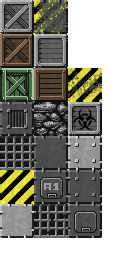
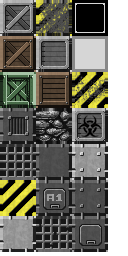
New textures

diff --git a/core/src/com/vt/gameobjects/characters/CharacterObject.java b/core/src/com/vt/gameobjects/characters/CharacterObject.java
@@ -1,7 +1,6 @@
 package com.vt.gameobjects.characters;
 
 import com.badlogic.gdx.ai.steer.behaviors.Arrive;
-import com.badlogic.gdx.graphics.g2d.Animation;
 import com.badlogic.gdx.graphics.g2d.Batch;
 import com.badlogic.gdx.math.Vector2;
 import com.badlogic.gdx.scenes.scene2d.utils.Align;
@@ -13,7 +12,6 @@ import com.vt.gameobjects.pointers.ViewPointer;
 import com.vt.gameobjects.weapons.AbstractWeapon;
 import com.vt.gameobjects.weapons.Pistol;
 import com.vt.physics.CollisionManager;
-import com.vt.resources.AnimationWrapper;
 import com.vt.resources.Assets;
 import com.vt.serialization.RestorableValue;
 import com.vt.timedriven.DelayedAction;
@@ -30,10 +28,6 @@ public class CharacterObject extends ActingObject implements ControllableCharact
     private Vector2 m_lastPosition;
     private boolean m_keepOrientation = true;
     private AbstractWeapon m_weapon;
-    private AnimationWrapper m_animationCurrent;
-    private AnimationWrapper m_animationMove;
-    private AnimationWrapper m_animationShoot;
-    private AnimationWrapper m_animationStand;
     private DelayedAction m_shootingAction;
 
     protected enum State {
@@ -65,32 +59,6 @@ public class CharacterObject extends ActingObject implements ControllableCharact
         setOrigin(Constants.PLAYER_ORIGIN_RELATIVE_X * Constants.PLAYER_WIDTH,
                 Constants.PLAYER_ORIGIN_RELATIVE_Y * Constants.PLAYER_HEIGHT);
         setTexture(Assets.getInstance().gameEntities.player);
-
-        m_animationMove = new AnimationWrapper(
-                new Animation(
-                        Constants.PLAYER_ANIMATION_FRAME_TIME_BASE,
-                        Assets.getInstance().gameEntities.playerAnimationMove,
-                        Animation.PlayMode.LOOP
-                )
-        );
-
-        m_animationStand = new AnimationWrapper(
-                new Animation(
-                        Constants.PLAYER_ANIMATION_FRAME_TIME_BASE,
-                        Assets.getInstance().gameEntities.playerAnimationStand,
-                        Animation.PlayMode.LOOP
-                )
-        );
-
-        m_animationShoot = new AnimationWrapper(
-                new Animation(
-                        Constants.PLAYER_SHOOTING_ANIMATION_FRAME_TIME,
-                        Assets.getInstance().gameEntities.playerAnimationShoot,
-                        Animation.PlayMode.NORMAL
-                )
-        );
-        m_animationShoot.setNormalPlayMode(Animation.PlayMode.NORMAL);
-        m_animationShoot.setReversedPlayMode(Animation.PlayMode.REVERSED);
 
         this.setName(Constants.PLAYER_ACTOR_NAME);
 
@@ -166,10 +134,9 @@ public class CharacterObject extends ActingObject implements ControllableCharact
     public void shoot() {
         if (m_weapon != null) {
             setState(State.Shoot);
-            m_animationShoot.restart();
             if (m_shootingAction == null) {
                 m_shootingAction = new DelayedAction(
-                        Constants.PLAYER_SHOOTING_ANIMATION_DURATION,
+                        0.2f, // TODO: change to constant
                         new Runnable() {
                             @Override
                             public void run() {
@@ -295,29 +262,13 @@ public class CharacterObject extends ActingObject implements ControllableCharact
     private void manageAnimation() {
         switch (m_state) {
             case Stand:
-                changeAnimation(m_animationStand);
                 break;
             case Move:
-                changeAnimation(m_animationMove);
                 break;
             case Shoot:
-                changeAnimation(m_animationShoot);
                 break;
             default:
-                changeAnimation(m_animationStand);
                 break;
-        }
-        if (m_animationCurrent != null)
-            setTexture(m_animationCurrent.getCurrentFrame());
-    }
-
-    private void changeAnimation(AnimationWrapper a) {
-        if (m_animationCurrent != a) {
-            m_animationCurrent = a;
-            if (Environment.getInstance().isRewinding())
-                m_animationCurrent.restartReversed();
-            else
-                m_animationCurrent.restart();
         }
     }
 }

diff --git a/core/src/com/vt/game/Constants.java b/core/src/com/vt/game/Constants.java
@@ -12,7 +12,7 @@ public class Constants {
     public static final float PLAYER_WIDTH = 0.75f;
     public static final float PLAYER_HEIGHT = 0.75f;
     public static final float PLAYER_BOUNDING_RADIUS = 0.3f;
-    public static final float PLAYER_ORIGIN_RELATIVE_X = 0.25f; // in % of width
+    public static final float PLAYER_ORIGIN_RELATIVE_X = 0.50f; // in % of width
     public static final float PLAYER_ORIGIN_RELATIVE_Y = 0.50f; // in % of height
     public static final float MOVEMENT_POINTER_HEIGHT = 0.5f;
     public static final float MOVEMENT_POINTER_WIDTH = 0.5f;
@@ -71,17 +71,14 @@ public class Constants {
     public static final String ARIAL_32_ASSET_NAME = "fonts/arial_32.fnt";
 
     public static final String TEXTURE_ATLAS_PACK = "entities.pack";
-    public static final String PLAYER_ASSET_NAME = "marine_pistol";
-    public static final String PLAYER_SHOOTING_ASSET_NAME = "marine_pistol_fire";
+    public static final String CIRCLE_WITH_POINTER_ASSET_NAME = "circleWithPointer";
     public static final String MOVEMENT_POINTER_ASSET_NAME = "movementPointer";
     public static final String VIEW_POINTER_ASSET_NAME = "viewPointer";
     public static final String PROJECTILE_ASSET_NAME = "projectile";
 
-    public static final float PLAYER_ANIMATION_FRAME_TIME_BASE = 0.35f;
-    public static final float PLAYER_SHOOTING_ANIMATION_FRAME_TIME = 0.2f;
-    public static final float PLAYER_SHOOTING_ANIMATION_DURATION = PLAYER_SHOOTING_ANIMATION_FRAME_TIME;
-
     public static final String TERRAIN_ATLAS_PACK = "tiles.pack";
+    public static final String SIMPLE_FLOOR_ASSET_NAME = "tile_floor";
+    public static final String SIMPLE_WALL_ASSET_NAME = "tile_wall";
     public static final String PLAIN_FLOOR_LIGHT_ASSET_NAME = "tile1";
     public static final String PLAIN_FLOOR_WITH_DOTS_LIGHT_ASSET_NAME = "tile2";
     public static final String PLAIN_FLOOR_DARK_ASSET_NAME = "tile16";
@@ -113,10 +110,10 @@ public class Constants {
     public final static float MAX_ANGULAR_SPEED_DEFAULT = 30;
     public final static float MAX_ANGULAR_ACCELERATION_DEFAULT = 30;
 
-    public final static float MAX_PLAYER_LINEAR_SPEED = 2.0f; // meters per second (4 m/s = 14.4 km/h)
+    public final static float MAX_PLAYER_LINEAR_SPEED = 3.0f; // meters per second (4 m/s = 14.4 km/h)
     public final static float MAX_PLAYER_LINEAR_ACCELERATION = 6.0f;
-    public final static float MAX_PLAYER_ANGULAR_SPEED = 180; // old value = 30
-    public final static float MAX_PLAYER_ANGULAR_ACCELERATION = 180; // old value = 30
+    public final static float MAX_PLAYER_ANGULAR_SPEED = 120; // old value = 30
+    public final static float MAX_PLAYER_ANGULAR_ACCELERATION = 120; // old value = 30
 
     public final static float PLAYER_ARRIVAL_TOLERANCE = 0.08f;
     public final static float PLAYER_ARRIVAL_TOLERANCE_POW_2 = PLAYER_ARRIVAL_TOLERANCE * PLAYER_ARRIVAL_TOLERANCE;
@@ -132,7 +129,7 @@ public class Constants {
 
     // time and game logic ----------------------------------------------------
     public final static float REWIND_TIME = 3.0f;
-    public final static float REWIND_SPEED_MULTIPLIER = 3;
+    public final static float REWIND_SPEED_MULTIPLIER = 2;
     public final static float MAX_HISTORY_TIME = REWIND_TIME * 5;
     // ------------------------------------------------------------------------
 

diff --git a/core/src/com/vt/resources/Assets.java b/core/src/com/vt/resources/Assets.java
@@ -29,15 +29,14 @@ public class Assets implements Disposable, AssetErrorListener {
 
     public class GameEntities {
         public TextureAtlas.AtlasRegion player;
-        public Array<TextureAtlas.AtlasRegion> playerAnimationStand;
-        public Array<TextureAtlas.AtlasRegion> playerAnimationMove;
-        public Array<TextureAtlas.AtlasRegion> playerAnimationShoot;
         public TextureAtlas.AtlasRegion movementPointer;
         public TextureAtlas.AtlasRegion viewPointer;
         public TextureAtlas.AtlasRegion projectile;
     }
 
     public class Terrain {
+        public TextureAtlas.AtlasRegion simpleFloor;
+        public TextureAtlas.AtlasRegion simpleWall;
         public TextureAtlas.AtlasRegion plainFloorLight;
         public TextureAtlas.AtlasRegion plainFloorWithDotsLight;
         public TextureAtlas.AtlasRegion plainFloorDark;
@@ -79,15 +78,8 @@ public class Assets implements Disposable, AssetErrorListener {
             t.setFilter(Texture.TextureFilter.Linear, Texture.TextureFilter.Linear);
 
         gameEntities = new GameEntities();
-        gameEntities.player = atlas.findRegion(Constants.PLAYER_ASSET_NAME);
-
-        gameEntities.playerAnimationStand = new Array<TextureAtlas.AtlasRegion>(1);
-        gameEntities.playerAnimationStand.add(atlas.findRegion(Constants.PLAYER_ASSET_NAME));
-
-        gameEntities.playerAnimationMove = atlas.findRegions(Constants.PLAYER_ASSET_NAME);
-
-        gameEntities.playerAnimationShoot = new Array<TextureAtlas.AtlasRegion>(1);
-        gameEntities.playerAnimationShoot.add(atlas.findRegion(Constants.PLAYER_SHOOTING_ASSET_NAME));
+//        gameEntities.player = atlas.findRegion(Constants.PLAYER_ASSET_NAME);
+        gameEntities.player = atlas.findRegion(Constants.CIRCLE_WITH_POINTER_ASSET_NAME);
 
         gameEntities.movementPointer = atlas.findRegion(Constants.MOVEMENT_POINTER_ASSET_NAME);
         gameEntities.viewPointer = atlas.findRegion(Constants.VIEW_POINTER_ASSET_NAME);
@@ -114,6 +106,8 @@ public class Assets implements Disposable, AssetErrorListener {
             t.setFilter(Texture.TextureFilter.Linear, Texture.TextureFilter.Linear);
 
         terrain = new Terrain();
+        terrain.simpleFloor = atlas.findRegion(Constants.SIMPLE_FLOOR_ASSET_NAME);
+        terrain.simpleWall = atlas.findRegion(Constants.SIMPLE_WALL_ASSET_NAME);
         terrain.plainFloorLight = atlas.findRegion(Constants.PLAIN_FLOOR_LIGHT_ASSET_NAME);
         terrain.plainFloorWithDotsLight = atlas.findRegion(Constants.PLAIN_FLOOR_WITH_DOTS_LIGHT_ASSET_NAME);
         terrain.plainFloorDark = atlas.findRegion(Constants.PLAIN_FLOOR_DARK_ASSET_NAME);

diff --git a/core/src/com/vt/gameobjects/terrain/tiles/Wall.java b/core/src/com/vt/gameobjects/terrain/tiles/Wall.java
@@ -9,7 +9,8 @@ import com.vt.resources.Assets;
  */
 public class Wall extends Tile {
     public Wall() {
-        setTexture(Assets.getInstance().terrain.boxGreyCross);
+//        setTexture(Assets.getInstance().terrain.boxGreyCross);
+        setTexture(Assets.getInstance().terrain.simpleWall);
         CollisionManager.getInstance().registerStaticCollidableObject(getId(), this);
     }
 

diff --git a/core/src/com/vt/gameobjects/terrain/tiles/Floor.java b/core/src/com/vt/gameobjects/terrain/tiles/Floor.java
@@ -7,6 +7,7 @@ import com.vt.resources.Assets;
  */
 public class Floor extends Tile {
     public Floor() {
-        setTexture(Assets.getInstance().terrain.plainFloorDark);
+//        setTexture(Assets.getInstance().terrain.plainFloorDark);
+        setTexture(Assets.getInstance().terrain.simpleFloor);
     }
 }

diff --git a/core/src/com/vt/game/VTGame.java b/core/src/com/vt/game/VTGame.java
@@ -15,7 +15,5 @@ public class VTGame extends Game {
     @Override
     public void render () {
         super.render();
-//        Gdx.app.debug("VTGame", "JavaHeapUsage = " + Gdx.app.getJavaHeap());
-//        Gdx.app.debug("VTGame", "NativeHeapUsage = " + Gdx.app.getNativeHeap());
     }
 }
